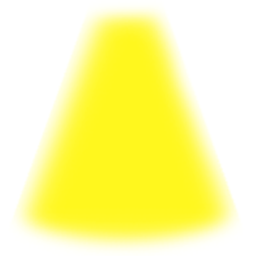
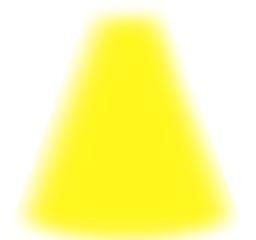
TexLight追加

Changed region(s): [[0.0625, 0.4958, 0.9375, 1.0], [0.7188, 0.3792, 0.9375, 0.8458], [0.1875, 0.4083, 0.2188, 0.4958]]

diff --git a/DirectX12 Game Solution/DirectX12 MainProject/MyClass/Shader/TextureLight.cpp b/DirectX12 Game Solution/DirectX12 MainProject/MyClass/Shader/TextureLight.cpp
@@ -37,24 +37,47 @@ void TextureLight::Init()
 	LoadTexture();
 }
 
+void TextureLight::Update()
+{
+	vertex[0].position = pos[0];
+	vertex[0].uv = Vector2(0, 1);
+	vertex[0].color = DX9::Colors::RGBA(color.x, color.y, color.z, color.w);
+	vertex[1].position = pos[1];
+	vertex[1].uv = Vector2(0, 0);
+	vertex[1].color = DX9::Colors::RGBA(color.x, color.y, color.z, color.w);
+	vertex[2].position = pos[2];
+	vertex[2].uv = Vector2(1, 0);
+	vertex[2].color = DX9::Colors::RGBA(color.x, color.y, color.z, color.w);
+
+	vertex[3].position = pos[2];
+	vertex[3].uv = Vector2(1, 0);
+	vertex[3].color = DX9::Colors::RGBA(color.x, color.y, color.z, color.w);
+	vertex[4].position = pos[3];
+	vertex[4].uv = Vector2(1, 1);
+	vertex[4].color = DX9::Colors::RGBA(color.x, color.y, color.z, color.w);
+	vertex[5].position = pos[0];
+	vertex[5].uv = Vector2(0, 1);
+	vertex[5].color = DX9::Colors::RGBA(color.x, color.y, color.z, color.w);
+}
+
 void TextureLight::Render()
 {
 	SimpleMath::Matrix mat = SimpleMath::Matrix::Identity;
 	DXTK->Direct3D9->SetTransform(D3DTS_WORLD, *(D3DXMATRIX*)&mat);
 	DXTK->Direct3D9->SetTexture(0, texture);
 	DXTK->Direct3D9->SetRenderState(Lighting_Disable);
-	//DXTK->Direct3D9->AlphaBendEnable(true);
+	DXTK->Direct3D9->AlphaBendEnable(true);
 	DXTK->Direct3D9->DrawInstanced(D3DPT_TRIANGLELIST, 2, &vertex[0], DX9::VertexColor::FVF);
-	//DXTK->Direct3D9->AlphaBendEnable(false);
+	DXTK->Direct3D9->AlphaBendEnable(false);
 	DXTK->Direct3D9->SetRenderState(Lighting_Enable);
 }
 
-void TextureLight::SetPos(SCorner corner)
+void TextureLight::SetPos(SCorner Corner)
 {
-	pos[0] = corner.BL;
-	pos[1] = corner.UL;
- 	pos[2] = corner.UR;
- 	pos[3] = corner.BR;
+	pos[0] = Corner.BL;
+	pos[1] = Corner.UL;
+ 	pos[2] = Corner.UR;
+ 	pos[3] = Corner.BR;
 }
  
 void TextureLight::LoadTexture()

diff --git a/DirectX12 Game Solution/DirectX12 MainProject/MyClass/Shader/TextureLight.h b/DirectX12 Game Solution/DirectX12 MainProject/MyClass/Shader/TextureLight.h
@@ -17,8 +17,10 @@ public:
 	};
 
 	void Init();
+	void Update();
 	void Render();
-	void SetPos(SCorner corner);
+	void SetPos(SCorner Corner);
+	void SetColor(Vector4 Color) { color = Color; }
 
 private:
 	void LoadTexture();
